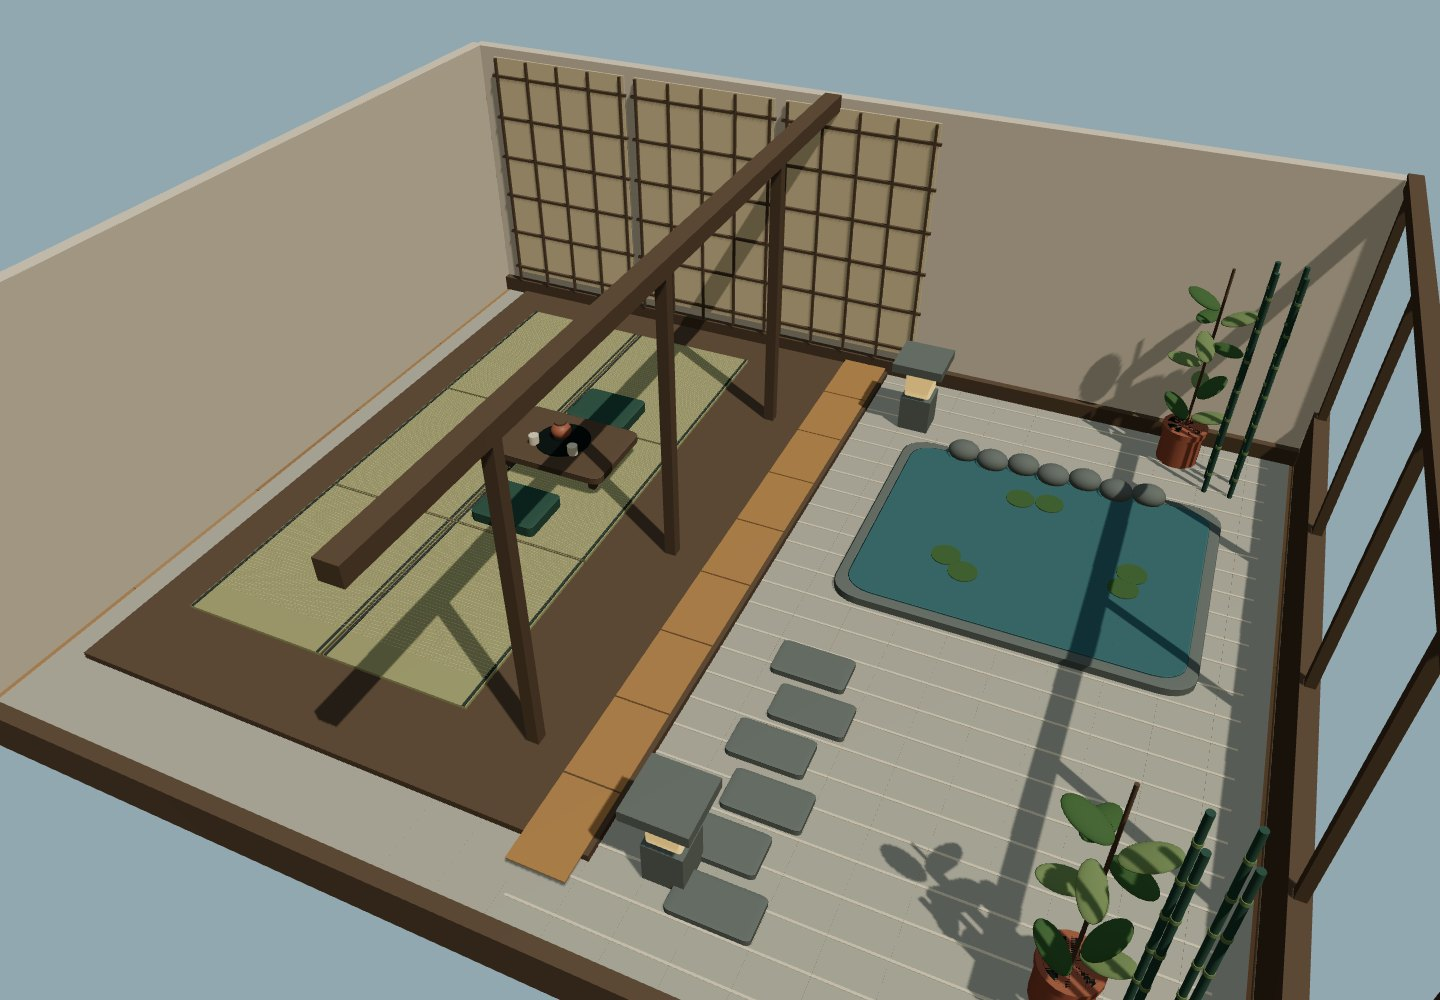
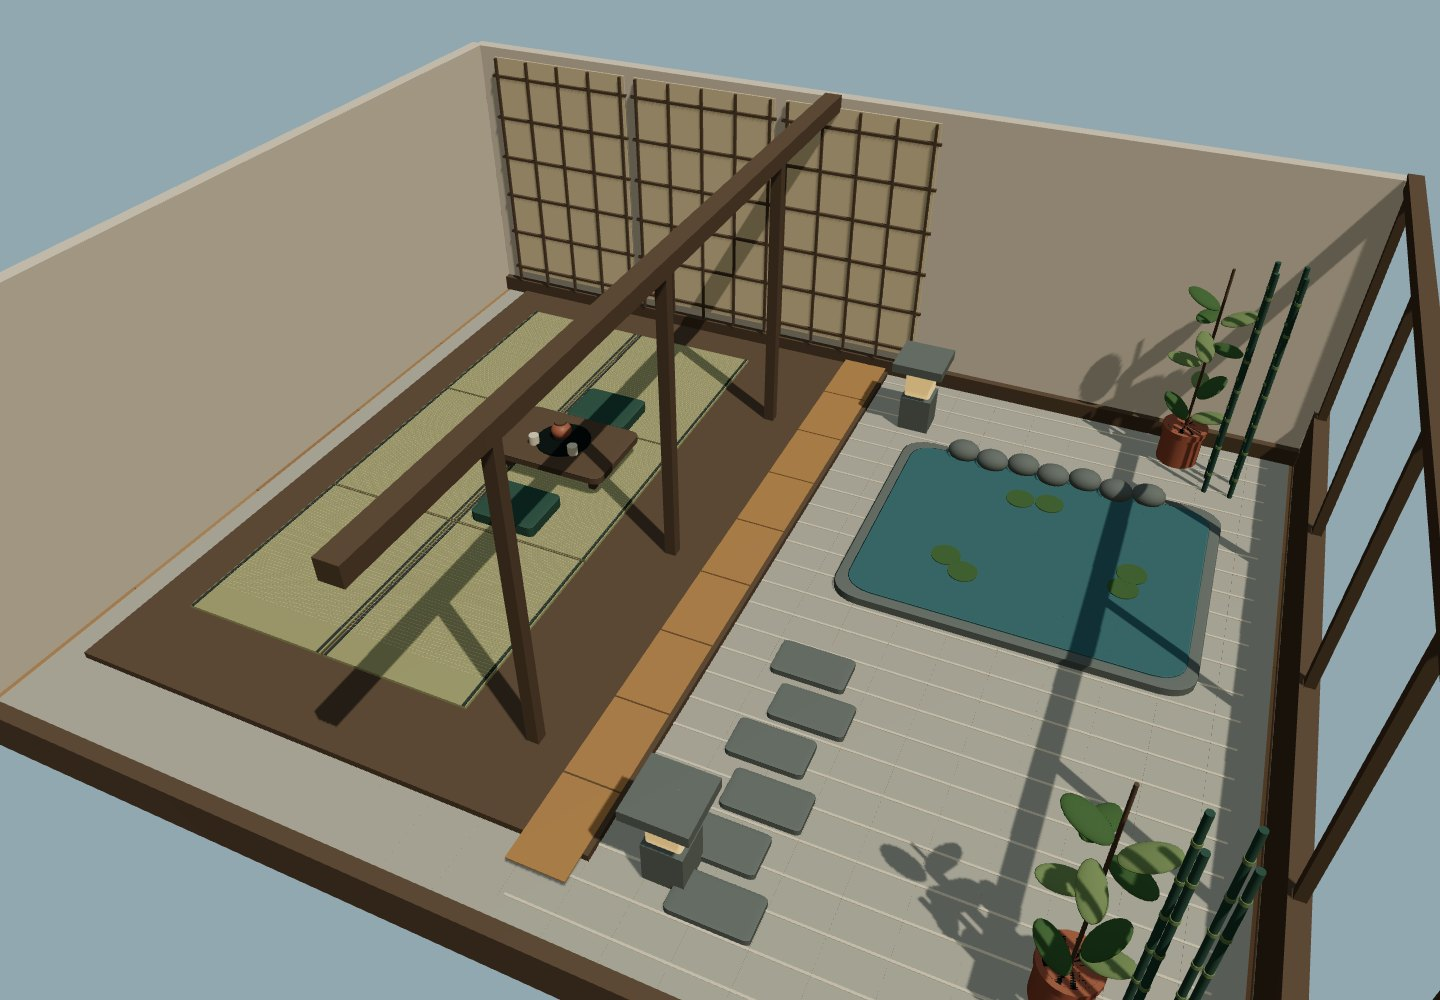
こもれびのラウンジを写真付きサンプル一覧に追加

Changed region(s): [[0.8125, 0.961, 0.8438, 1.0], [0.8125, 0.403, 0.8438, 0.434], [0.7188, 0.961, 0.75, 0.992]]

diff --git a/src/style.css b/src/style.css
@@ -47,7 +47,7 @@
  .settings-content{padding:20px}.settings-footer{padding:12px 20px;font-size:10px}
  #session-active{display:block}#session-active>.voice-controls{margin:20px 0;padding:18px 0;border-left:0;border-top:1px solid var(--border);border-bottom:1px solid var(--border)}
 }
-.sample-heading{margin-top:28px;border-top:1px solid var(--border);padding-top:18px}.sample-heading h3{font-size:14px;margin:0}.sample-heading p{font-size:11px;margin:7px 0 14px}.sample-rooms{display:grid;grid-template-columns:repeat(3,minmax(0,1fr));gap:12px}.sample-room{text-align:left;padding:0;background:#ffffff05;color:#e4eadf;border:1px solid #ffffff18;border-radius:9px;overflow:hidden}.sample-room:hover{border-color:var(--accent);background:#bfd9aa12}.sample-room img{width:100%;aspect-ratio:16/10;object-fit:cover;display:block}.sample-room>span{display:block;padding:12px;font-size:12px}.sample-room small{display:block;margin-top:6px;font-size:10px;color:#9daf9e}@media(max-width:550px){.sample-rooms{grid-template-columns:1fr}.sample-room{display:flex;align-items:center}.sample-room img{width:40%;}.sample-room>span{padding:10px}}
+.sample-heading{margin-top:28px;border-top:1px solid var(--border);padding-top:18px}.sample-heading h3{font-size:14px;margin:0}.sample-heading p{font-size:11px;margin:7px 0 14px}.sample-rooms{display:grid;grid-template-columns:repeat(2,minmax(0,1fr));gap:12px}.sample-room{text-align:left;padding:0;background:#ffffff05;color:#e4eadf;border:1px solid #ffffff18;border-radius:9px;overflow:hidden}.sample-room:hover{border-color:var(--accent);background:#bfd9aa12}.sample-room img{width:100%;aspect-ratio:16/10;object-fit:cover;display:block}.sample-room>span{display:block;padding:12px;font-size:12px}.sample-room small{display:block;margin-top:6px;font-size:10px;color:#9daf9e}@media(max-width:550px){.sample-rooms{grid-template-columns:1fr}.sample-room{display:flex;align-items:center}.sample-room img{width:40%;}.sample-room>span{padding:10px}}
 
 .room-art.room-photo>*{display:none}.room-art.room-photo:after{display:none}
 .avatar-history-heading{margin-top:26px;border-top:1px solid var(--border);padding-top:18px}.avatar-history-heading h3{font-size:14px;margin:0}.avatar-history-heading p,#avatar-history-status{font-size:11px;color:#99aca3}#avatar-history{list-style:none;padding:0;margin:12px 0}#avatar-history li{display:flex;gap:12px;align-items:center;padding:8px 0;border-bottom:1px solid var(--border)}.avatar-history-select{flex:1;min-width:0;text-align:left;border:1px solid #ffffff15;border-radius:8px;padding:12px;background:#ffffff05;color:#e4eadf}.avatar-history-select[aria-pressed=true]{border-color:#bfd9aa;background:#bfd9aa15}.avatar-history-select span{display:block;font-size:13px;overflow-wrap:anywhere}.avatar-history-select small{display:block;color:#9daf9e;font-size:11px;margin-top:6px}

diff --git a/src/main.ts b/src/main.ts
@@ -56,6 +56,7 @@ document.querySelector<HTMLDivElement>('#app')!.innerHTML = `
         <div class="room-actions"><button class="text-button" id="starter-room">${icon('home')}サンプルに戻す</button><a class="text-button" href="./starter-room.vroom" download="starter-room.vroom" aria-label="サンプルルームを保存">${icon('download')}保存</a></div>
         <div class="sample-heading"><h3>サンプルルーム</h3><p>部屋を選んで探索。招待すれば友だちとも遊べます。</p></div>
         <div class="sample-rooms">
+          <button class="sample-room" data-sample="lounge"><img src="./rooms/lounge.jpg" alt="" loading="lazy"><span>こもれびのラウンジ<small>自然光・ソファ・くつろぎ</small></span></button>
           <button class="sample-room" data-sample="cafe"><img src="./rooms/cafe.jpg" alt="" loading="lazy"><span>ボタニカルカフェ<small>植物・真鍮・コーヒー</small></span></button>
           <button class="sample-room" data-sample="library"><img src="./rooms/library.jpg" alt="" loading="lazy"><span>雨音の書斎<small>本棚・暖炉・読書の席</small></span></button>
           <button class="sample-room" data-sample="garden"><img src="./rooms/garden.jpg" alt="" loading="lazy"><span>月庭の和室<small>畳・池・竹の庭</small></span></button>
@@ -247,7 +248,7 @@ try {
     button.onclick = () => {
       if (session || pending) return;
       void busy('サンプルルームを読み込み中…', async () => {
-        const response = await fetch(`./rooms/${button.dataset.sample}.vroom`);
+        const response = await fetch(button.dataset.sample === 'lounge' ? './starter-room.vroom' : `./rooms/${button.dataset.sample}.vroom`);
         if (!response.ok) throw new Error('サンプルルームを取得できませんでした。');
         await showRoom(await response.arrayBuffer(), button.dataset.sample);
         settings.close(); world.focus(); notify('ルームを変更しました。自由に探索してみましょう。');

diff --git a/scripts/capture-samples.ts b/scripts/capture-samples.ts
@@ -4,7 +4,7 @@ try {
   const page = await browser.newPage({viewport:{width:1440,height:1000}});
   const errors:string[]=[];page.on('pageerror',e=>errors.push(e.message));
   await page.goto('http://127.0.0.1:5180/');await expect(page.locator('#loading')).toBeHidden({timeout:60000});
-  for(const [id,title] of [['cafe','ボタニカルカフェ'],['library','雨音の書斎'],['garden','月庭の和室']]) {
+  for(const [id,title] of [['lounge','こもれびのラウンジ'],['cafe','ボタニカルカフェ'],['library','雨音の書斎'],['garden','月庭の和室']]) {
     await page.locator('#settings-button').click(); await page.locator('#tab-room').click();
     await page.locator(`[data-sample=${id}]`).click();
     await expect(page.locator('#settings-dialog')).toBeHidden();
@@ -22,7 +22,7 @@ try {
       Object.assign(container.style, { position:'fixed', inset:'0', zIndex:'1000', background:'#222' });
       document.body.append(container);
       const world = new World(container);
-      await world.loadRoom(await (await fetch(`/rooms/${id}.vroom`)).arrayBuffer());
+      await world.loadRoom(await (await fetch(id === 'lounge' ? '/starter-room.vroom' : `/rooms/${id}.vroom`)).arrayBuffer());
       world.player.visible = false;
       world.player.position.set(0, 0, 0);
       Object.assign(world, { yaw: .42, pitch: .67, distance: 12.2 });

diff --git a/README.md b/README.md
@@ -131,7 +131,7 @@ npm run generate:motions
 
 ## 追加サンプルルーム
 
-「設定」→「ルーム」→「サンプルルーム」から3つの部屋を選べます。従来のラウンジと合わせて4部屋です。選んだ部屋で招待ルームを作ると、参加者にも同じ部屋が共有されます。
+「設定」→「ルーム」→「サンプルルーム」から、こもれびのラウンジを含む4つの部屋を選べます。選んだ部屋で招待ルームを作ると、参加者にも同じ部屋が共有されます。
 
 - ボタニカルカフェ：カウンター、植物、真鍮のペンダント、コーヒーと小物。
 - 雨音の書斎：装飾付きの本棚、暖炉、読書ソファ、窓辺の机。
